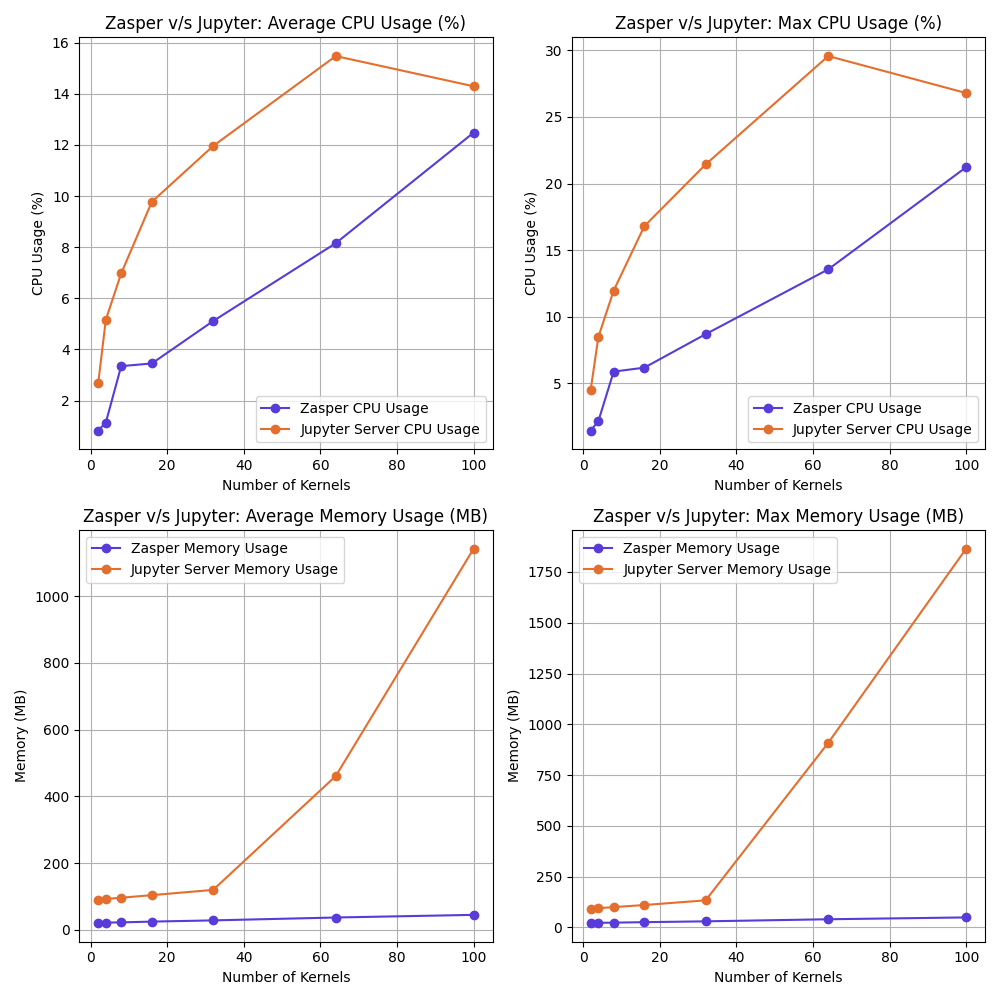
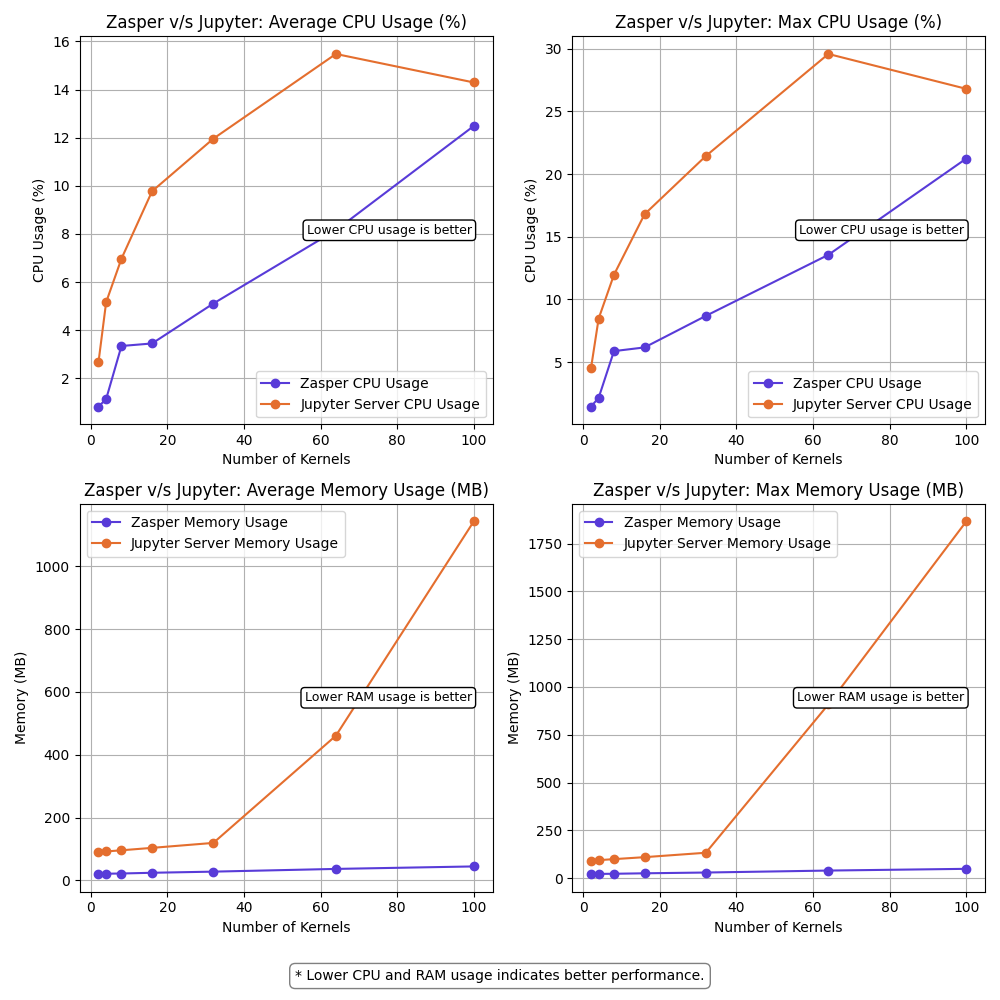
add visualizations

diff --git a/visualize_resources_summary.py b/visualize_resources_summary.py
@@ -23,6 +23,25 @@ avg_mems_jupyter = []
 max_cpus_jupyter = []
 max_mems_jupyter = []
 
+# Define helper to add annotation
+def add_note(ax, text, position='upper right'):
+    positions = {
+        'upper right': dict(x=0.95, y=0.95, ha='right', va='top'),
+        'upper left': dict(x=0.05, y=0.95, ha='left', va='top'),
+        'center': dict(x=0.5, y=0.5, ha='center', va='center'),
+        'center left': dict(x=0.05, y=0.5, ha='left', va='center'),
+        'center right': dict(x=0.95, y=0.5, ha='right', va='center'),
+        'lower right': dict(x=0.95, y=0.05, ha='right', va='bottom'),
+        'lower left': dict(x=0.05, y=0.05, ha='left', va='bottom'),
+    }
+    ax.text(
+        s=text,
+        transform=ax.transAxes,
+        fontsize=9,
+        bbox=dict(facecolor='white', edgecolor='black', boxstyle='round,pad=0.3'),
+        **positions[position]
+    )
+
 # Helper function to compute averages
 def compute_averages(data):
     cpu = [entry['cpu_usage'] for entry in data]
@@ -62,6 +81,7 @@ ax1.set_xlabel('Number of Kernels')
 ax1.set_ylabel('CPU Usage (%)')
 ax1.legend()
 ax1.grid(True)
+add_note(ax1, "Lower CPU usage is better", position='center right')
 
 ax2.plot(kernel_counts, max_cpus_zasper, label="Zasper CPU Usage", marker='o', color='#583BD8')
 ax2.plot(kernel_counts, max_cpus_jupyter, label="Jupyter Server CPU Usage", marker='o', color='#E46E2E')
@@ -70,6 +90,7 @@ ax2.set_xlabel('Number of Kernels')
 ax2.set_ylabel('CPU Usage (%)')
 ax2.legend()
 ax2.grid(True)
+add_note(ax2, "Lower CPU usage is better", position='center right')
 
 # 2. RAM Usage
 ax3.plot(kernel_counts, avg_mems_zasper, label="Zasper Memory Usage", marker='o', color='#583BD8')
@@ -79,6 +100,7 @@ ax3.set_xlabel('Number of Kernels')
 ax3.set_ylabel('Memory (MB)')
 ax3.legend()
 ax3.grid(True)
+add_note(ax3, "Lower RAM usage is better", position='center right')
 
 ax4.plot(kernel_counts, max_mems_zasper, label="Zasper Memory Usage", marker='o', color='#583BD8')
 ax4.plot(kernel_counts, max_mems_jupyter, label="Jupyter Server Memory Usage", marker='o', color='#E46E2E')
@@ -87,8 +109,19 @@ ax4.set_xlabel('Number of Kernels')
 ax4.set_ylabel('Memory (MB)')
 ax4.legend()
 ax4.grid(True)
+add_note(ax4, "Lower RAM usage is better", position='center right')
 
 
-plt.tight_layout()
+fig.text(
+    0.5, 0.02,
+    "* Lower CPU and RAM usage indicates better performance.",
+    ha='center',
+    fontsize=10,
+    bbox=dict(facecolor='white', edgecolor='gray', boxstyle='round,pad=0.4')
+)
+
+# Show the plot
+# plt.tight_layout()
+plt.tight_layout(rect=[0, 0.05, 1, 1])
 plt.savefig(f"plots/{delay}ms/summary_resources.png")
 # plt.show()

diff --git a/README.md b/README.md
@@ -88,6 +88,22 @@ go mod tidy
 # Install Python dependencies
 pip install -r requirements.txt
 ```
+* Setting environment variables
+```
+DELAY=10
+TOKEN=0f246b68d418b3eeeaee4f2432b42927aa2458a278523114
+XSRF_TOKEN=2|42679dac|baa53312a6f622e92be800d4bf32b02c|1743152726
+NUM_KERNELS=64
+TARGET=jupyter
+PID=17656
+```
+`DELAY` is the time duration between two subsequent message requests to a kernel. 
+`NUM_KERNELS` : Number of kernel connections you want to create.
+`TAEGET`: Define whether you are measuring the performace of jupyter or zasper.
+`PID`: the process id of `jupyterlab` or `zasper` once you start the process.
+`TOKEN`: the `api_token` of jupyterlab session.
+`XSRF_TOKEN`: collect it via the browser. In Jupyterlab ui Open developer tools > Application . Copy the `xsrf_token`.
+
 
 
 * Collecting data for zasper
@@ -141,9 +157,11 @@ The program writes the output to `benchmark_results_jupyterlab.json`
 * Visualize the data
 
 ```
-python visualize.py
+python3 visualize.py --delay=10 --n=64
 ```
-
+```
+python3 visualize_resources_summary.py --delay=10
+```
 
 # Results
 
@@ -177,13 +195,14 @@ Higher Message sent per second and Message received per second  is better.
 
 ![](/plots/100ms/benchmark_result_64kernels.png)
 
-Note the messages received throughput starts to drop here.
+Note the messages received throughput starts to drop here. A few kernels get disconnect for JupyterLab.
 
 ### 100 kernels | 10 RPS per kernel
 
 ![](/plots/100ms/benchmark_result_100kernels.png)
 
 Note the messages received throughput drops to 0.
+All Jupyter kernels connections crash at this point.
 
 ### Resource Usage summary | 10 RPS per kernel
 ![](/plots/100ms/summary_resources.png)
